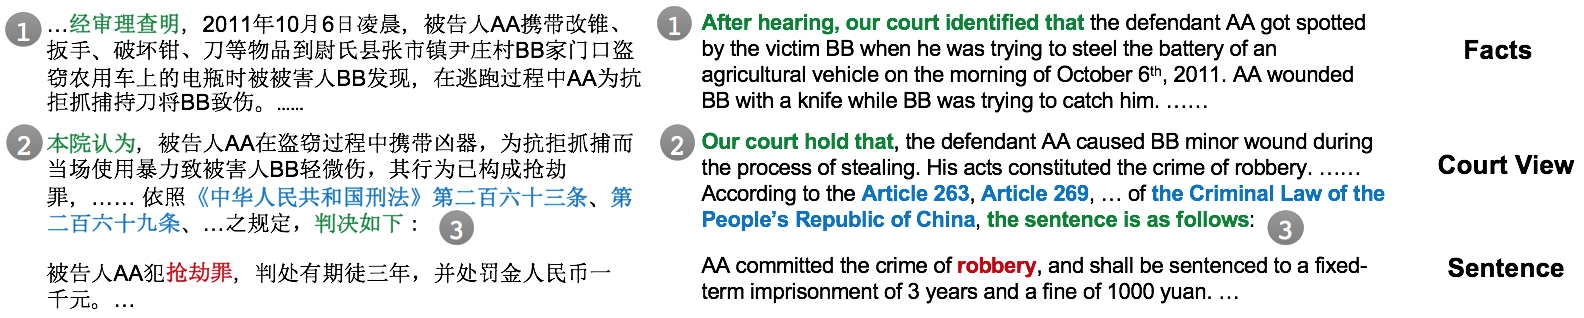
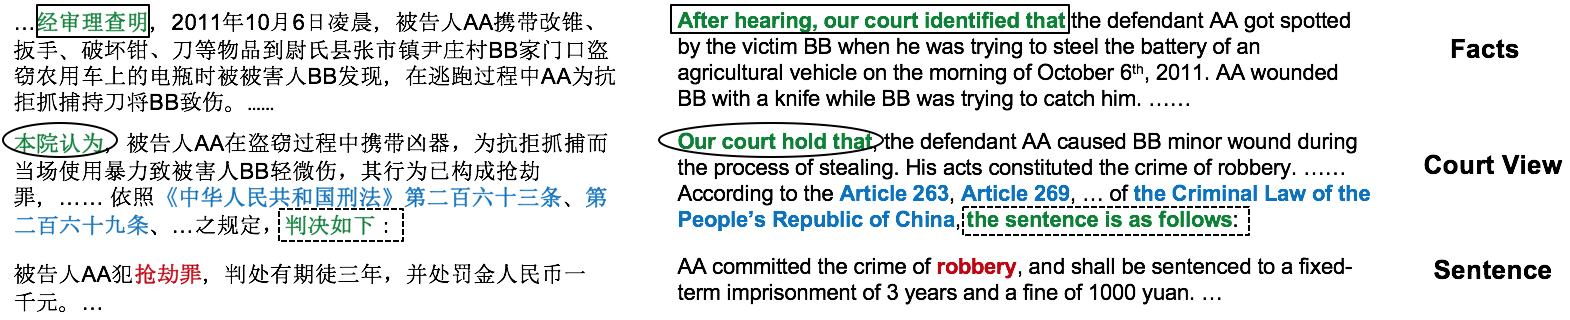
minor

diff --git a/approach.tex b/approach.tex
@@ -11,16 +11,16 @@
 % In order to generate reasonable charge prediction, 
 Our approach follows four steps as depicted in Figure \ref{fig_model_framework}. 
 (1) The input fact description is fed to a document encoder to generate the fact embedding $\mathbf{d_f}$.
-(2) Concurrently, the input fact description is also passed to a relevant article extractor to find top $k$ relevant law articles. 
-(3) The article are fed to another document encoder, and the article embeddings are further passed to an article aggregator to produce the aggregated article embedding $\mathbf{d_a}$. Meanwhile, three context vectors, i.e., $\mathbf{u_{aw}}$, $\mathbf{u_{as}}$ and $\mathbf{u_{ad}}$, are dynamically generated from $\mathbf{d_f}$ for the article document encoder and the article aggregator. 
-(4) Finally, $\mathbf{d_f}$ and $\mathbf{d_a}$ are concatenated and passed to a softmax classifier to predict the charge distribution of the input case.
+(2) Concurrently, the fact description is also passed to an article extractor to find top $k$ relevant law articles. 
+(3) The extracted articles are fed to another document encoder, and the resultant article embeddings are passed to an article aggregator to produce the aggregated article embedding $\mathbf{d_a}$. Meanwhile, three context vectors, i.e., $\mathbf{u_{aw}}$, $\mathbf{u_{as}}$ and $\mathbf{u_{ad}}$, are dynamically generated from $\mathbf{d_f}$ for the article document encoder and the article aggregator. 
+(4) Finally, $\mathbf{d_f}$ and $\mathbf{d_a}$ are concatenated and passed to a softmax classifier to predict the charge distribution for the input case.
 
 %The fact-based charge classification task can be formatted as a multi-label document classification task. The input is several sentences describing the facts of a case, and the output is multiple charges related to the case. Since usually multiple elements are required to constitute a charge (for example, the charge of acceptance of bribes requires the defendant to illegally accepts another person's money, and the defendant should also be a state functionary), the recurrent neural network (RNN) seems like a natural fit for the task. Considering the fact that only a small portion of the facts are crucial for the determination of charges, we also use attention mechanism in our model. Since the HAN model  satisfies many of our requirements except the multi-label classification capability, we use the framework of the HAN model for document embedding, but replace the output module and the loss function with ones that are compatible with the multi-label classification task. Furthermore, to take the information of article into account, we add another article attention module to incorporate the information of relevant articles to the model.
 
 \subsection{Document Encoder}
 \label{sec_doc_encoder}
 % Our document encoder module is based on the framework of Hierarchical Neural Network (HAN) proposed by \cite{yang2016hierarchical}. The overview of our document encoder is shown in Figure \ref{fig_doc_encoder}. 
-Intuitively, a sentence is a sequence of words and a document is a sequence of sentences. As suggested by previous works \cite{tang2015document,yang2016hierarchical}, the document embedding problem can be converted to two sequence embedding problems. As shown in Figure \ref{fig_doc_encoder}, we can first embedding each sentence using the sentence-level sequence encoder, and then aggregate them with document-level sequence encoder to generate the document embedding $\mathbf{d}$. 
+Intuitively, a sentence is a sequence of words and a document is a sequence of sentences. As suggested by \cite{tang2015document,yang2016hierarchical}, the document embedding problem can be converted to two sequence embedding problems. As shown in Figure \ref{fig_doc_encoder}, we can first embed each sentence using a sentence-level sequence encoder, and then aggregate them with a document-level sequence encoder to generate the document embedding $\mathbf{d}$. 
 % Therefore, the key problem of document embedding converts to building an effective sequence encoder.
 Although it is possible to use different models for these two sequence encoders, we simply use the same architecture here for simplicity.
 
@@ -43,7 +43,7 @@ Although it is possible to use different models for these two sequence encoders,
 
 \paragraph{Bi-GRU Sequence Encoder} 
 A prominent challenge in building a sequence encoder is how to take the correlation of each elements into consideration. A promising solution is the bi-directional gated recurrent unit (Bi-GRU) model proposed by \cite{bahdanau2015neural}, which encodes the context of each element by using a gating mechanism to track the state of sequence.
-Specifically, Bi-GRU first uses a forward and a backward GRU~\cite{cho2014learning}, which a kind of Recurrent Neural Network (RNN), to encode the sequence in two opposite directions, and then concatenate the results of both GRUs to form the final outputs. 
+Specifically, Bi-GRU first uses a forward and a backward GRU~\cite{cho2014learning}, which is a kind of Recurrent Neural Network (RNN), to encode the sequence in two opposite directions, and then concatenate the results of both GRUs to form the final outputs. 
 
 Given a sequence $[\mathbf{x}_1, \mathbf{x}_2, ..., \mathbf{x}_T]$ where $\mathbf{x}_t$ is the input embedding of element $t$, the state of Bi-GRU at position $t$ is:
 
@@ -51,7 +51,7 @@ Given a sequence $[\mathbf{x}_1, \mathbf{x}_2, ..., \mathbf{x}_T]$ where $\mathb
 %h_t = [\overrightarrow{h}_t , \overleftarrow{h}_t]
 \mathbf{h}_t = [\mathbf{h}_{ft}, \mathbf{h}_{bt}]
 \end{equation}
-where $\mathbf{h}_{ft}$ and $\mathbf{h}_{bt}$ are the state the forward and backward GRU at position $t$ respectively. The final sequence embedding is either the concatenation of $\mathbf{h}_{fT}$ and $\mathbf{h}_{b1}$, or simply the average of the average of $\mathbf{h}_t$.
+where $\mathbf{h}_{ft}$ and $\mathbf{h}_{bt}$ are the states of the forward and backward GRU at position $t$ respectively. The final sequence embedding is either the concatenation of $\mathbf{h}_{fT}$ and $\mathbf{h}_{b1}$, or simply the average of $\mathbf{h}_t$.
 
 % And the state of a single GRU (take forward GRU as an example) is calculated by:
 % \begin{equation}
@@ -139,7 +139,7 @@ Therefore, we use the attentive sequence encoder in Section \ref{sec_att_seq_enc
 
 
 \subsection{Output and Loss Function}
-To generate the charge prediction, we first concatenate the document embedding $\mathbf{d}_f$ and the aggregated article embedding $\mathbf{d}_a$, and feed them to two consecutive full connection layers to generate a new vector $\mathbf{d}$. Then, $\mathbf{d}$ is passed to a softmax classifier to generate the predicted charge distribution. We use the validation set to determine a threshold $\tau$, and consider all the charges with a output probability higher than $\tau$ as positive predictions.
+To generate the charge prediction, we first concatenate the document embedding $\mathbf{d}_f$ and the aggregated article embedding $\mathbf{d}_a$, and feed them to two consecutive full connection layers to generate a new vector $\mathbf{d}'$. Then, $\mathbf{d}'$ is passed to a softmax classifier to generate the predicted charge distribution. We use the validation set to determine a threshold $\tau$, and consider all the charges with output probability higher than $\tau$ as positive predictions.
 % Note that although other multi-label classification paradigms are also applicable to our problem (see Section \ref{sec_related_work}), we use this method because it performs best in our pilot experiments. 
 Also note that the input to the first full connection layer can also be $\mathbf{d}_f$ only, which means we do not use the information from relevant law articles.
 % (see comparison in Section \ref{sec_main_results}). 
@@ -152,7 +152,7 @@ Loss= -\sum_{i=1}^N\sum_{l=1}^L{y_{il} log(o_{il})}
 where $N$ is the number of training data, $L$ is the number of charges, $y_{il}$ and $o_{il}$ are the target and predicted probability of charge $l$ of datum $i$. Here the target charge distribution $\mathbf{y}$ is generated by setting positive labels to $\frac{1}{m}$ and negative labels to $0$, where $m$ is the number of positive labels.
 
 \paragraph{Supervised Article Attention}
-Since the judgement documents also contain gold standard relevant law articles, we can further use this information to \orange{supervise} the article attention during training. Specifically, given the top $k$ articles, we want the article attention distribution $\bm{\alpha}\in\mathbb{R}^k$ to simulate the target distribution $\mathbf{t}\in\mathbb{R}^k$, where $t_j=\frac{1}{k'}$ if article $j$ belongs to the gold standard articles and $t_j=0$ otherwise. Here $k'$ is the number of gold standard articles in the top $k$ extractions.
+Since the judgement documents also contain gold standard relevant law articles, we can therefore use this information to \orange{supervise} the article attention during training. Specifically, given the top $k$ articles, we want the article attention distribution $\bm{\alpha}\in\mathbb{R}^k$ to simulate the target distribution $\mathbf{t}\in\mathbb{R}^k$, where $t_j=\frac{1}{k'}$ if article $j$ belongs to the gold standard articles and $t_j=0$ otherwise. Here $k'$ is the number of gold standard articles in the top $k$ extractions.
 
 % : \todo{can be simplified}
 % \begin{equation}

diff --git a/intro.tex b/intro.tex
@@ -6,7 +6,7 @@ For example, if the user wants to find similar cases, one can use the predicted 
 
 In these situations, we need to predict appropirate charges based solely on the fact descriptions of a case. 
 However, this charge prediction task is not easy:
-(1) The differences between two charges can sometimes be subtle. For example, in the context of criminal cases in China, 
+(1) The differences between two charges can sometimes be subtle, for example, in the context of criminal cases in China, 
 distinguishing \emph{intentional homicide} from \emph{intentional injury} would require determining whether the defendant is intended to kill the victim in the cases where the victim is dead.
 % distinguishing \emph{intentional homicide} from \emph{negligent homicide} would require detailed analysis of the behavior of the defendant.
 % and \emph{acceptance of bribes} differs from \emph{acceptance of bribes by a non-state functionary} in the occupation of the defendant. 
@@ -17,7 +17,7 @@ Even in countries using common law system, e.g., the United States (except Louis
 
 % Therefore, to solve this problem, we need a multi-label classification model, that can effectively capture the overall \orange{framework} along with important details of the fact description, and is able to extract and utilize relevant law articles to build the bridge from the fact description to appropriate charges as well. 
 
-Previous works on charge prediction either use k-Nearest Neighbor (KNN)~\cite{LIU2004case,liu2006exploring} as classifier or need to manually design key factors of specific charges \cite{lin2012exploiting}, thus do not scale well with regard to data size and number of charges. Furthermore, none of them consider the situation where multiple charges are involved. On the other hand, \cite{liu2005classifying,liu2006exploring} also try to find the specific law articles that has been violated, but converts the multi-label problem into multi-class classification by only considering a fixed set of article combinations, therefore does not scale to the situation when a larger set of articles are involved. \cite{liu2015predicting} aims to find relevant articles in a scalable way by doing predilinary classification first and rerank the results afterwards. Although the framework is promising, only shallow, i.e., word-level, semantic features are employed in their work. Furthermore, all of these works treat charge prediction and article prediction separately, ignoring the fact that they can actually benefit each other. 
+Previous works on charge prediction either use k-Nearest Neighbor (KNN)~\cite{LIU2004case,liu2006exploring} as classifier or need to manually design key factors of specific charges \cite{lin2012exploiting}, thus do not scale well with regard to data size and number of charges. Furthermore, none of them consider the situation where multiple charges are involved. On the other hand, \cite{liu2005classifying,liu2006exploring} also try to find the specific law articles that has been violated, but converts the multi-label problem into multi-class classification by only considering a fixed set of article combinations, therefore does not scale to the situation when a larger set of articles are involved. \cite{liu2015predicting} aims to find relevant articles in a scalable way by doing preliminary classification first and rerank the results afterwards. Although the framework is promising, only shallow, i.e., word-level, semantic features are employed in their work. Furthermore, all of these works treat charge prediction and article prediction separately, ignoring the fact that they can actually benefit each other. 
 
 
 % Since the judgement of a case often involves deciding appropriate charges, our work is part of the thread of work that tries to predicting the results of a case. Previous works on this thread mainly focuses on a binary classification paradigm. The target is either to decide whether the outcome will side with the plaintiff or defendant~\cite{aletras2016predicting}, or will the justice or the present court affirm or reverse the decision of a lower court~\cite{lauderdale2014scaling,sim2015utility,katz2016general}. Except for their binary prediction nature, these methods either do not use fact descriptions or just capture shallow semantic meaning of the facts, e.g., using Bag-of-Words (BOW). Furthermore, although \cite{aletras2016predicting} also tries to use relevant law articles for prediction, the articles they use are gold standard ones while we extract the relevant article by ourselves.
@@ -26,7 +26,7 @@ Previous works on charge prediction either use k-Nearest Neighbor (KNN)~\cite{LI
 % \footnote{\cite{katz2016general} also use an additional \emph{other} class to represent other complex outcomes.}
 
 % To make conprehensive understanding of the fact description, \orange{we propose to use the framework of the Hierarchical Attention Network (HAN)} \cite{yang2016hierarchical} for document embedding. Specifically, we use a sentence-level and a document-level Gated Recurrent Unit (GRU) to embed each word and each sentence along with their contexts. 
-In our proposed method, however, we jointly model the charge prediction and relevant article extraction in a single framework, which enables them to influence each other \orange{in a positive way}.
+In our proposed method, however, we jointly model charge prediction and relevant article extraction in a single framework, which enables them to influence each other \orange{in a positive way}.
 Specifically, to understand the \orange{whole framework} of the facts, inspired by previous works on document classification \cite{tang2015document,yang2016hierarchical}, we use a sentence-level and a document-level Gated Recurrent Unit (GRU) to model the associations among words and sentences.
 To capture the important details, we use attention mechanism to select the most informative words or sentences for sentence and document embedding respectively. 
 To handle the multi-label nature of the problem, we convert the multi-label target to label distribution, and then use cross entropy as loss function. 
@@ -54,7 +54,7 @@ The contributions of this paper are threefold:
 \begin{center}
 \includegraphics[width=0.97\textwidth]{figures/case.png}	
 \caption{Example judgement document excerpt of a Chinese criminal case. Names are anonymized as AA and BB.
-Circle 1, 2 and 3 refers to the clauses that usually indicates the start of the facts part, the court view part and the sentence part respectively.
+Rectangulars, ellipses and dashed rectangulars refers to the clauses that usually indicates the start of the facts part, the court view part and the sentence part respectively.
 }
 \label{fig_example_case}
 \end{center}

diff --git a/exp.tex b/exp.tex
@@ -6,7 +6,7 @@ The size of the resultant word embedding is 100-d and there are 573,353 words in
 % During training and testing, all the time expressions, names and charges\footnote{Although rare, sometimes the charge may appear in the fact part. This conversion ensures that we do not use this information.} in the text are converted to 3 special tokens separately and the words not in the pre-trained word embeddings are converted to another special token. All the word embeddings remain unchanged during training except for the special tokens. 
 We also randomly initialize a 50-d vector for each POS tag, which is concatenated with the word embedding to generate the final input.
 Each GRU in the Bi-GRU is of size 75, the two full connection layers are of size 200 and 150.
-The relevant article extractor generates top 20 articles, and the weight of the article attention loss is 0.1. 
+The relevant article extractor generates top 20 articles, and the weight of the article attention loss ($\beta$ in Equation \ref{final_loss}) is 0.1. 
 We use Stochastic Gradient Descent (SGD) for training, with learning rate 0.1, and batch size 8.
 % We also clip the gradient so that the sum of square of the L2 norms of the trainable tensors does not exceed 5. 
 % To accelerate the training, we constrain the number of sentences of each fact description to be less than 50 and the the maximum length of each fact sentence to be 50. As for articles, we constrain the maximum length of each sentence to be 30. 
@@ -57,7 +57,7 @@ We compare our method with a baseline BOW-based SVM method, which is similar to 
 
 %The $Acc.$ refers to instance accuracy, which is the number of instances whose classes are all correctly predicted divided by the total number of instances.
 
-We can see that, the basic \texttt{SVM} model, which only use facts as input, proves to be a strong baseline. If we use both the facts and the gold standard articles of each case (\texttt{SVM\_gold\_article}), the performance can be further improved significantly, showing that the relevant law articles contain valuable information for charge prediction. However, if we replace the gold standard articles with the extracted ones (\texttt{SVM\_article}), the results become rather worse, indicating that the SVM model cannot benefit from the additional information of relevant articles when they are noisy. 
+We can see that, the basic \texttt{SVM} model, which only use facts as input, proves to be a strong baseline. If we use both the facts and the gold standard articles of each case (\texttt{SVM\_gold\_article}), the performance can be further improved significantly, showing that the relevant law articles contain valuable information for charge prediction. However, the results become worse when we replace the gold standard articles with the extracted ones (\texttt{SVM\_article}), indicating that the SVM model cannot benefit from the additional information of relevant articles when they are noisy. 
 % If we only use the gold standard articles of each case for classification (\texttt{SVM\_only\_gold}), the micro F1 can be further improved to 98.35, which further indicates that the SVM model has bad resistence to noise. \todo{is \texttt{\_only\_gold} necessary?}
 
 On the other hand, since our attentive article aggregator has the ability to distinguish relevant articles from extraction mistakes, our neural network (NN) model (\texttt{NN\_article}) can make use of the noisy article extractions, and improve the performance over the model using only facts as input (\texttt{NN}), which has already ourperfroms \texttt{SVM} by a large margin.

diff --git a/related.tex b/related.tex
@@ -2,7 +2,7 @@
 \label{sec_related_work}
 The charge prediction task aims at predicting appropriate charges based on the facts of a case.
 \cite{LIU2004case,liu2006exploring} use KNN to classify charges of criminal cases in Taiwan. However, except for the inferior scalability of the KNN method, their word-level or phrase-level features also do not provide enough information to distinguish very similar charges. 
-\cite{lin2012exploiting} proposes to make deeper understanding of a case by identifying charge-specific factors manually designed for two charges. Their method also suffers from sclability issue due to the human efforts requied to design and annotate these  factors. Our method, however, employs GRU and attention mechnism to make comphrehensive understanding of a case, and all the training data are automatically constructed based on public judgement documents. 
+\cite{lin2012exploiting} proposes to make deeper understanding of a case by identifying charge-specific factors manually designed for two charges. Their method also suffers from scalability issue due to the human efforts requied to design and annotate these factors. Our method, however, employs GRU and attention mechnism to make comphrehensive understanding of a case, and all the training data are automatically constructed based on public judgement documents. 
 
 On the other hand,
 \cite{liu2005classifying,liu2006exploring} also try to find the specific law articles that has been violated. However, they convert the multi-label problem to multi-class classification problem by only considering a fixed set of article combinations, which cannot scale well since the number of possible combinations will grow expentially when a larger set of law articles are considered.

diff --git a/data.tex b/data.tex
@@ -1,6 +1,6 @@
 \section{Data Preparation} 
 Our data are collected from China Judgements Online\footnote{\url{http://wenshu.court.gov.cn}}. The Chinese government has been publishing judgement documents on it since 2013.
-We randomly choose 50,000 judgements as training data, 5,000 for validation and 5,000 for testing. To ensure enough training data for each charge, we only keep the charges that appear more than 80 times in the training data and other charges are used as negative data. As for law articles, we only consider the ones in the Criminal Law of the People's Republic of China. The resulting dataset contains 50 distinct charges and 321 distinct articles. About 3.56\% cases contain more than one charges, and 94.18\% cases contain more than one law articles. 
+We randomly choose 50,000 judgements as training data, 5,000 for validation and 5,000 for testing. We keep the charges that appear more than 80 times in the training data, and consider judgements with other charges as negative data. As for law articles, we consider the ones in the Criminal Law of the People's Republic of China. The resulting dataset contains 50 distinct charges and 321 distinct articles. About 3.56\% cases contain more than one charges, and 94.18\% cases contain more than one law articles. 
 % \orange{An average case has 1.03 charges and 3.81 law articles}. 
 The facts part of each judgement contains 382.60 words on average.
 % , and 14.21 sentences on average.
